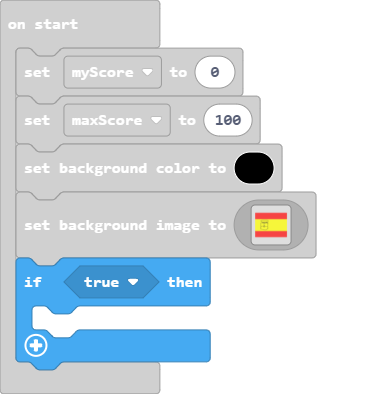
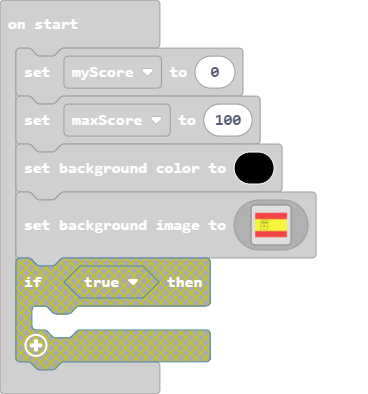
Update main.blocks, main.ts

Changed region(s): [[0.0299, 0.6396, 0.5978, 0.9442]]

diff --git a/main.ts b/main.ts
@@ -123,6 +123,3 @@ scene.setBackgroundImage(img`
     2222222222222222222222222222222222222222222222222222222222222222222222222222222222222222222222222222222222222222222222222222222222222222222222222222222222222222
     2222222222222222222222222222222222222222222222222222222222222222222222222222222222222222222222222222222222222222222222222222222222222222222222222222222222222222
     `)
-if (true) {
-	
-}
